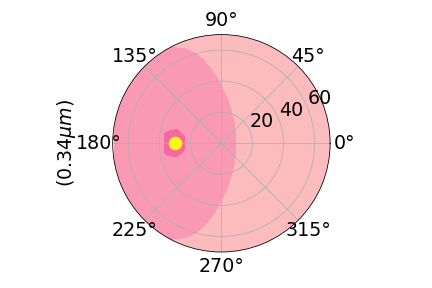
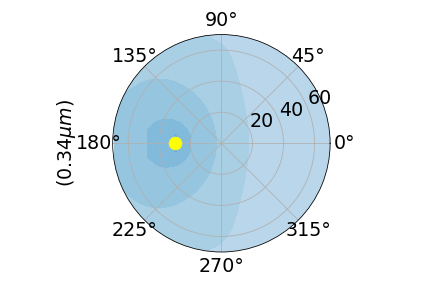
plots

Changed region(s): [[0.2407, 0.125, 0.7824, 0.875]]

diff --git a/Code/GRASP/simulateHemisphere_ReedEdit2.py b/Code/GRASP/simulateHemisphere_ReedEdit2.py
@@ -7,9 +7,9 @@ import datetime as dt
 
 # Path to the YAML file you want to use for the aerosol and surface definition
 #fwdModelYAMLpath = '/home/cdeleon/ULTRASIP/Code/GRASP/SettingFiles/settings_BiomassBurning.yml'
-#fwdModelYAMLpath = '/home/cdeleon/ULTRASIP/Code/GRASP/SettingFiles/settings_Dust_model1.yml'
+fwdModelYAMLpath = '/home/cdeleon/ULTRASIP/Code/GRASP/SettingFiles/settings_Dust_model1.yml'
 #fwdModelYAMLpath = '/home/cdeleon/ULTRASIP/Code/GRASP/SettingFiles/settings_WeaklyAbsorbing1101.yml'
-fwdModelYAMLpath = '/home/cdeleon/ULTRASIP/Code/GRASP/SettingFiles/settings_BiomassBurning2101.yml'
+#fwdModelYAMLpath = '/home/cdeleon/ULTRASIP/Code/GRASP/SettingFiles/settings_BiomassBurning2101.yml'
 
 # paths to your GRASP binary and kernels (replace everything up to grasp_open with the path to your GRASP repository)
 binPathGRASP = '/home/cdeleon/grasp/build/bin/grasp'
@@ -76,7 +76,7 @@ for i in range(2):
             labels.append(wvStr)
             titlestr = 'DoLP'
             name = str(l)
-            cmap = 'RdPu'
+            cmap = 'Blues'
             if i==0: 
                 data[-1] = 1*(np.log10(data[-1]))
                 clrMin = -1.5 #data[-1].min()
@@ -87,7 +87,7 @@ for i in range(2):
                # clrMax = data[-1].max(100)
             #clrMap = clrMapReg
             name = str(l)  
-            cmap = 'RdPu'  
+            cmap = 'Blues'  
         else: # this is a difference plot      
 #             if i==1:
             data.append(data[l-Nwvl+1] - data[0])
@@ -105,21 +105,21 @@ for i in range(2):
         #fig=plt.figure()
         fig = plt.figure()
         ax = plt.subplots(subplot_kw=dict(projection='polar'))#, figsize=(6,6+3*(Nwvl-1)))
-        v = np.linspace(clrMin, clrMax, 10, endpoint=True)
+        v = np.linspace(clrMin, clrMax, 20, endpoint=True)
         ticks = np.linspace(clrMin, clrMax, 7, endpoint=True)
         data2D = data[-1].reshape(Nazimth, Nvza)
         dataFullHemisphere = np.vstack([data2D, np.flipud(data2D)]) # mirror symmetric about principle plane
-        c = plt.contourf(theta, r, dataFullHemisphere, v, cmap='RdPu')#cmap='tab20c')
+        c = plt.contourf(theta, r, dataFullHemisphere, v, cmap=cmap)#cmap='tab20c')
         #plt.title(titlestr)
         plt.ylabel(wvStr, labelpad=35)
         plt.plot(np.pi, sza, '.',  color=[1,1,0], markersize=25)
-        plt.savefig(f'/home/cdeleon/ULTRASIP/Code/GRASP/Plots/NEW2{name}bb2101{titlestr}.png')
+        plt.savefig(f'/home/cdeleon/ULTRASIP/Code/GRASP/Plots/NEW3{name}d1{titlestr}.png')
 
 #ax.set_ylim([0, r.max()])
         #if i==0: 
 #ax.set_ylabel(labels[-1], labelpad=80)
     
-        cb = plt.colorbar(c, orientation='horizontal', ticks=ticks,pad=0.3)
+       # cb = plt.colorbar(c, orientation='horizontal', ticks=ticks,pad=0.3)
         #plt.savefig(f'/home/cdeleon/ULTRASIP/Code/GRASP/Plots/NEW2{name}d1{titlestr}.png')
         #plt.savefig(f'/home/cdeleon/ULTRASIP/Code/GRASP/Plots/{cmap}colorbar.png')
 
